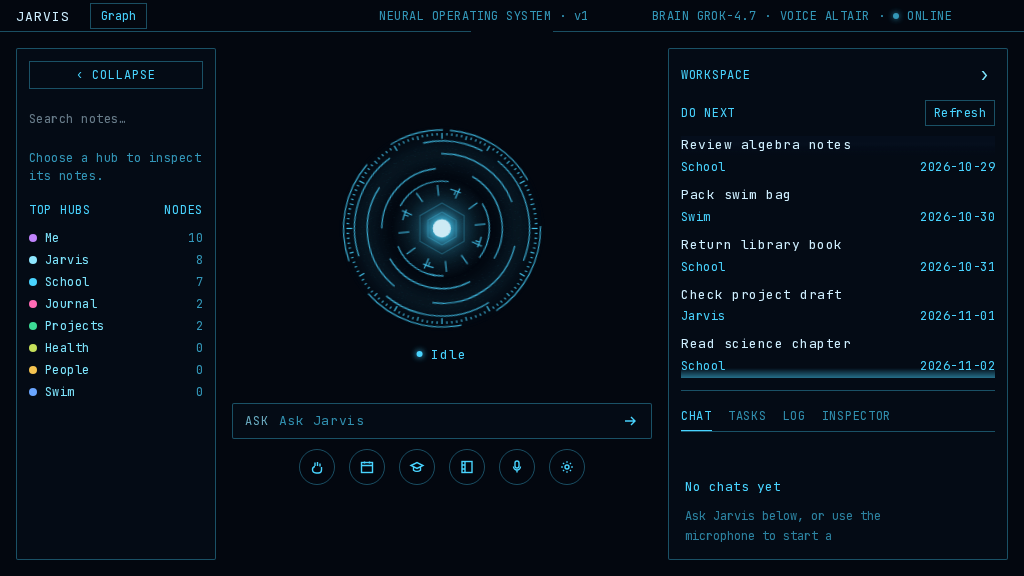
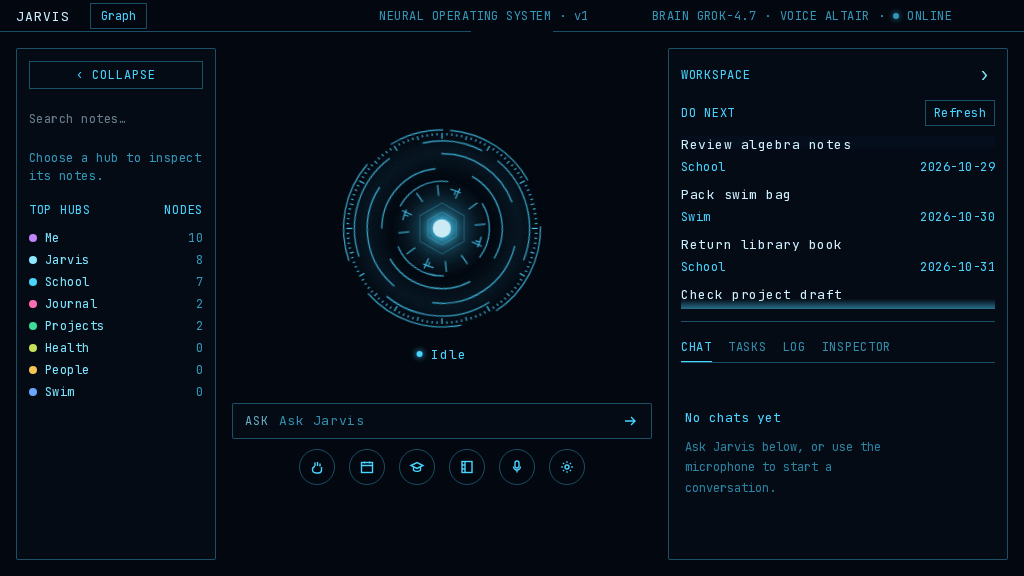
fix: preserve chat space on short viewports

diff --git a/src/app/face-layout.css b/src/app/face-layout.css
@@ -892,6 +892,9 @@
 .do-next-heading button:disabled { opacity: .5; cursor: default; }
 .do-next-heading button:focus-visible { outline: 1px solid #49d4ff; outline-offset: 2px; }
 .do-next-content { max-height: min(42vh, 320px); overflow: auto; scrollbar-width: thin; scrollbar-color: #49d4ff rgba(73,212,255,.16); }
+@media (max-height: 640px) {
+  .do-next-content { max-height: min(30vh, 180px); }
+}
 /* Scroll fades disappear at each end, even when the OS hides scrollbars. */
 .do-next-content {
   background-image: linear-gradient(#050e1c 30%, transparent), linear-gradient(transparent, #050e1c 70%), linear-gradient(rgba(73,212,255,.35), transparent), linear-gradient(transparent, rgba(73,212,255,.5));
